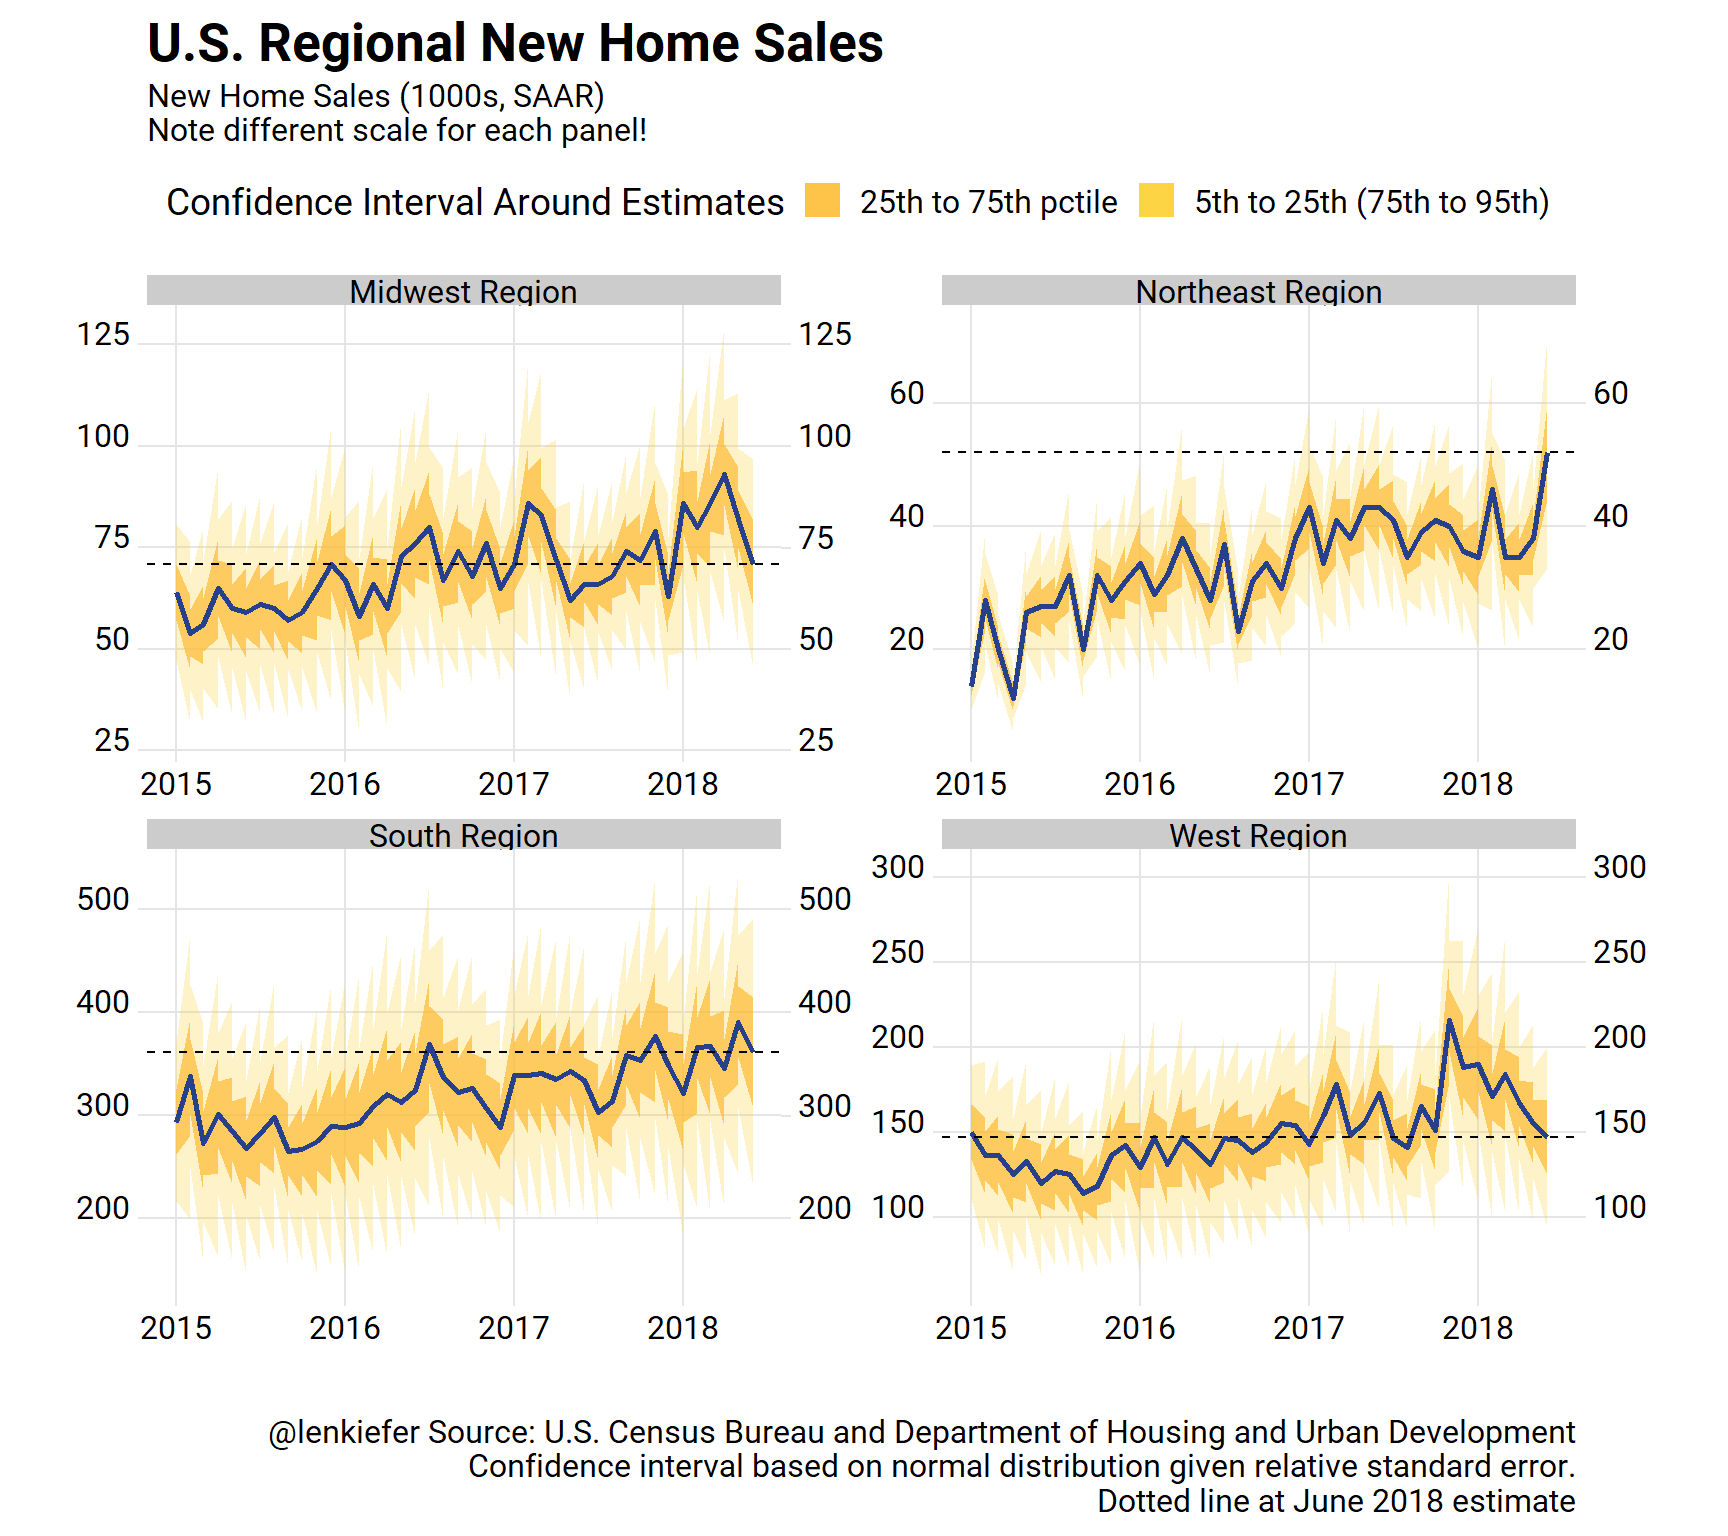
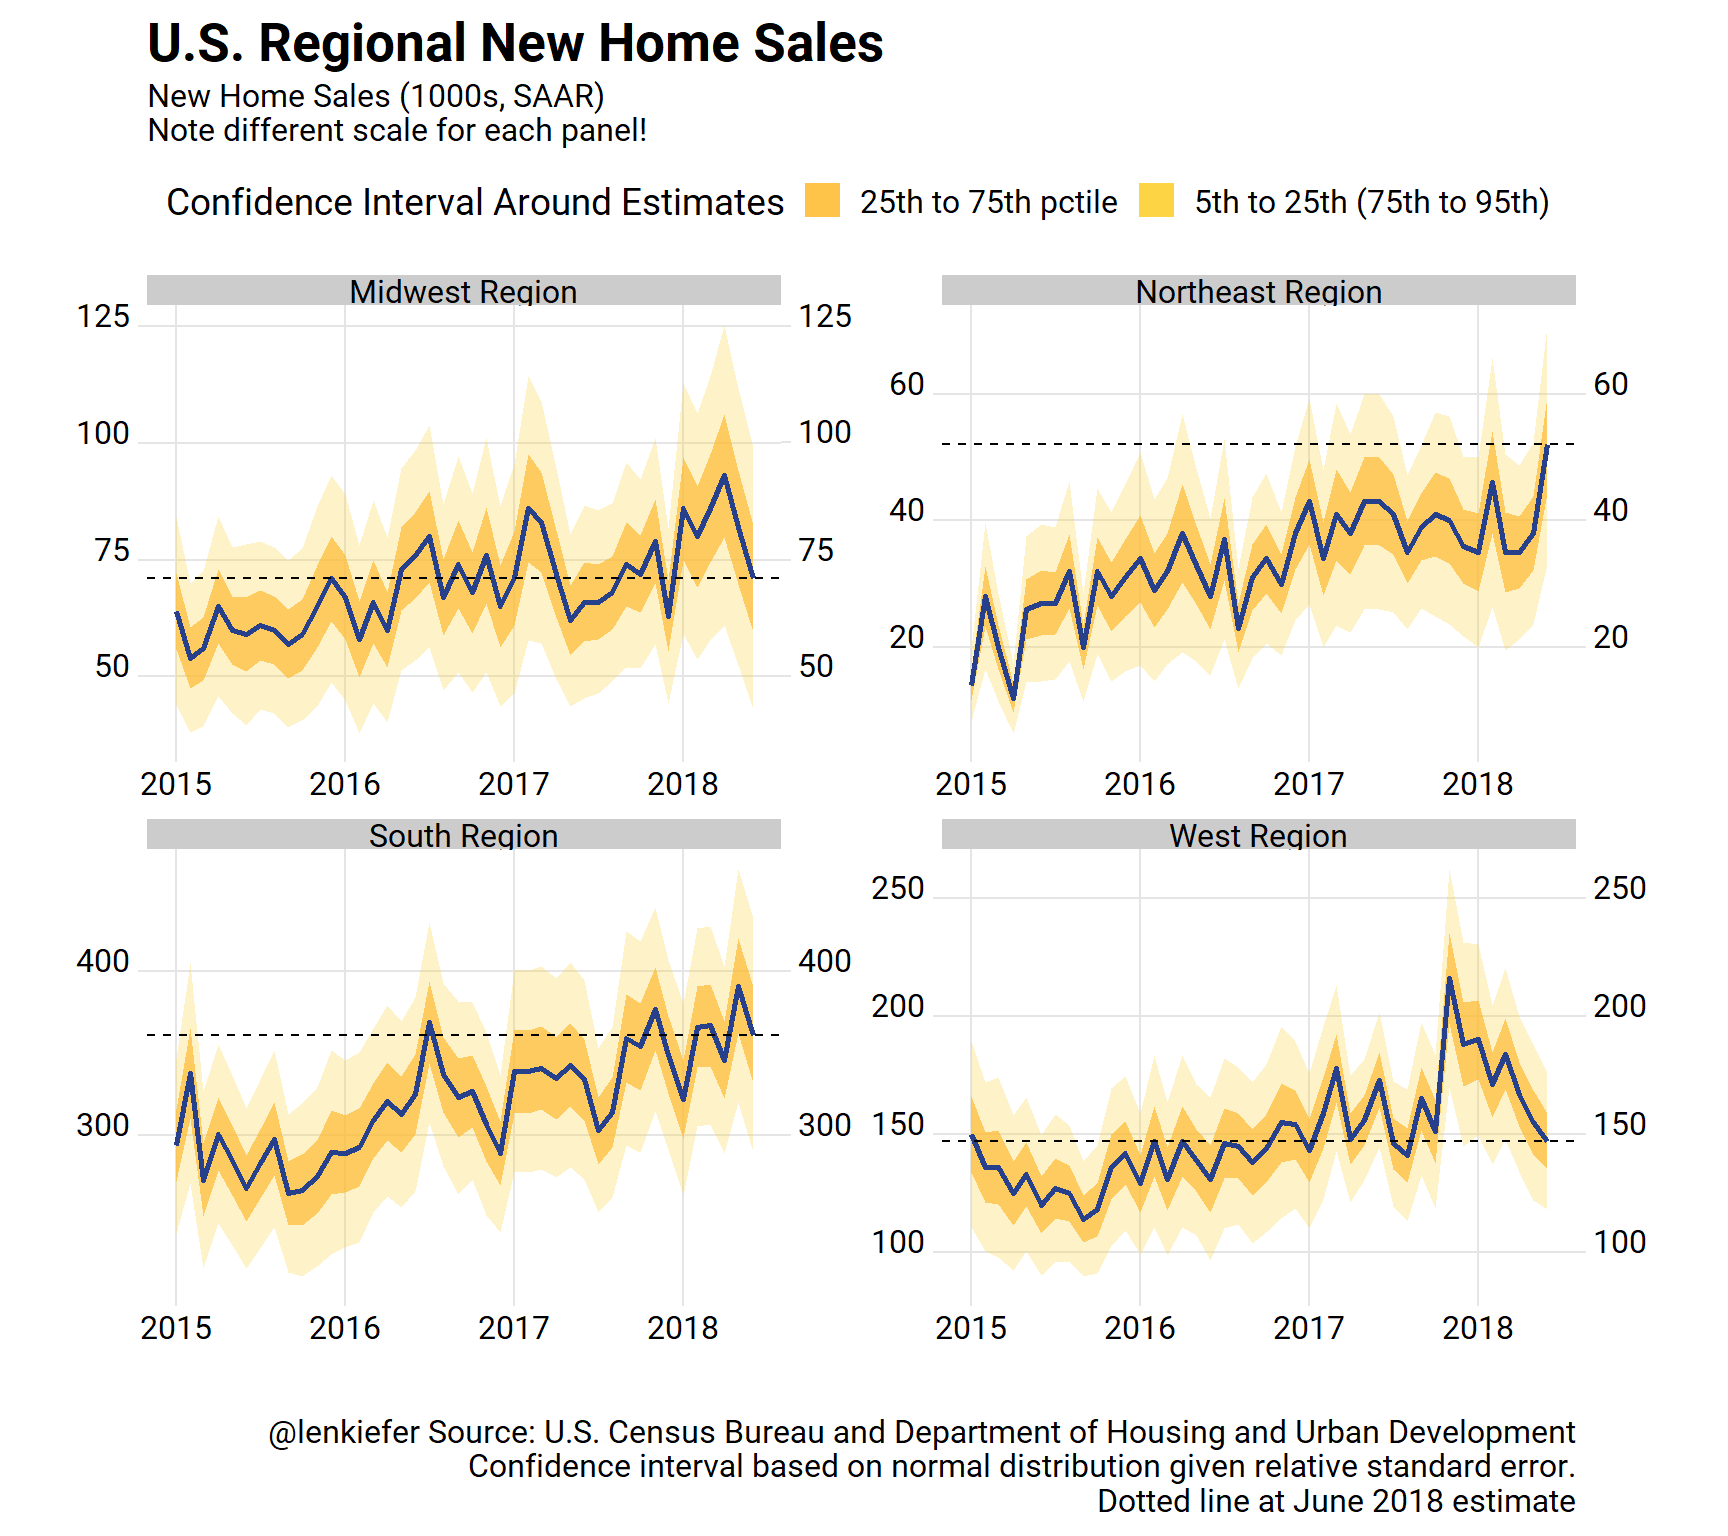
regional sales std

diff --git a/2018/07/26/getting-animated-about-new-home-sales/index.html b/2018/07/26/getting-animated-about-new-home-sales/index.html
@@ -253,7 +253,8 @@
 <p>Per usual, we’ll analyze the data with <a href="https://www.r-project.org/">R</a> and I’ll post code as we go along.</p>
 <div id="data" class="section level1">
 <h1>Data</h1>
-<p>Data for new home sales come from the U.S. Census Bureau joint with the U.S. Department of Housing and Urban Development. The <a href="https://www.census.gov/construction/nrs/about_the_surveys/index.html">data are collected</a> through the Survey of Construction. The data on new residential sales are widely watched as they provide insight into residential investment. For example, the Federal Reserve Bank of Atlanta’s <a href="https://www.frbatlanta.org/cqer/research/gdpnow.aspx?panel=fa9ccf1bede04c3b8a3ac751883e58a92">GDPNow</a> estimate uses the home sales report to adjust their estimates. The release of June 2018 new home sales data caused the GDPNow estimate for 2018Q2 GDP growth to decline by 0.1 percentage points and reduced the estimated growth in residential investment from -0.4 to -2.3 percent. <a href="https://www.frbatlanta.org/-/media/documents/cqer/researchcq/gdpnow/RealGDPTrackingSlides.pdf">Detail in linked pdf.</a></p>
+<p>Data for new home sales come from the U.S. Census Bureau joint with the U.S. Department of Housing and Urban Development. The <a href="https://www.census.gov/construction/nrs/about_the_surveys/index.html">data are collected</a> through the Survey of Construction.</p>
+<p>The data on new residential sales are widely watched as they provide insight into residential investment. For example, the Federal Reserve Bank of Atlanta’s <a href="https://www.frbatlanta.org/cqer/research/gdpnow.aspx?panel=fa9ccf1bede04c3b8a3ac751883e58a92">GDPNow</a> estimate uses the home sales report to adjust their estimates. The release of June 2018 new home sales data caused the GDPNow estimate for 2018Q2 GDP growth to decline by 0.1 percentage points and reduced the estimated growth in residential investment from -0.4 to -2.3 percent. <a href="https://www.frbatlanta.org/-/media/documents/cqer/researchcq/gdpnow/RealGDPTrackingSlides.pdf">Detail in linked pdf.</a></p>
 <div>
 <p>GDPNow’s response to home sales data <img src="../../../../img/charts_jul_26_2018/GDPNow.png", height=535, width=700></p>
 </div>
@@ -301,8 +302,13 @@ df&lt;- left_join(dt, df.dates, by=&quot;per_idx&quot;)</code></pre>
 <div id="uncertain-housing-data" class="section level1">
 <h1>Uncertain housing data</h1>
 <p>Let’s plot a trend for new home sales, but include a band to show uncertainty around the estimate. The Census provides a relative standard error, expressed as a percent of the point estimate. We can use a normal approximation to construct a band around the monthly estimate.</p>
-<p>Let’s first do it for the United States (<code>geo_idx==1</code>) and total (<code>dt_idx==</code>) monthly home sales at a seasonally adjusted annual rate (<code>cat_idx==2</code>). After we extract the point estimates, we’ll extract the error <code>et_idx</code> and then combine to plot:</p>
-<pre class="r"><code>df2 &lt;- filter(df, cat_idx==2, dt_idx==1,geo_idx==1)
+<p>Let’s first do it for the United States (<code>geo_idx==1</code>) and total (<code>dt_idx==</code>) monthly home sales at a seasonally adjusted annual rate (<code>cat_idx==2</code>). After we extract the point estimates, we’ll extract the error <code>et_idx</code> and then combine to plot.</p>
+<p>The <code>et_idx</code> variable is the relative standard error for estimated home sales. To convert to a confidence interval we’ll use the <code>qnorm</code> function to compute the perentiles assuming a normal distribution centered at the estimate with standard error equal to the estimate times the <code>et_idx</code> value divided by 100. <em>Note that Census rounds values so our estimates may differ slightly from the reported estimates</em>.</p>
+<pre class="r"><code>df2 &lt;- filter(df, 
+              cat_idx==2,  # NSA home sales
+              dt_idx==1,   # All houses
+              geo_idx==1   # Just usa
+              )
 
 # extract errors.
 df.err &lt;- filter(df, et_idx==1, cat_idx==2,geo_idx==1)
@@ -331,16 +337,21 @@ ggplot(data=filter(df3,year(date)&gt;2014), aes(x=date, y=val, fill=&quot;5th to
 <p>Here we can see that though the estimate for June ticked down, it’s hard to say for sure that home sales have done much of anything since 2017. Yes, the general tends seems up, but there’s a wide confidence interval.</p>
 <div id="regional-trends" class="section level3">
 <h3>Regional trends</h3>
-<p>We can also apply the same techniques to examine regional trends. We’ll use <code>case_when</code> too. See <span class="citation">@hrbrmstr</span> on <a href="https://rud.is/b/2017/03/10/making-a-case-for-case_when/">case_when in this post</a>.</p>
+<p>We can also apply the same techniques to examine regional trends. We’ll use the <code>case_when</code> function. See <span class="citation">@hrbrmstr</span> on <a href="https://rud.is/b/2017/03/10/making-a-case-for-case_when/">case_when in this post</a>.</p>
 <pre class="r"><code># regional with intervals
 
-df2.r &lt;- filter(df, cat_idx==2, dt_idx==1,! geo_idx==1)
+df2.r &lt;- filter(df, 
+                cat_idx==2,   # NSA home sales
+                dt_idx==1,    # All houses
+                ! geo_idx ==1 # not region =1 (excludes US)
+                )
 
-df.err.r &lt;- filter(df, et_idx==1, cat_idx==2,! geo_idx==1)
+# note: corrected to merge on geo_idx and date
+df.err.r &lt;- filter(df, et_idx==1, cat_idx==2,! geo_idx ==1)
 
-df3.r &lt;- data.frame(date=df.err.r$date,err=df.err.r$val)
+df3.r &lt;- data.frame(date=df.err.r$date,err=df.err.r$val,geo_idx=df.err.r$geo_idx)
 
-df3.r &lt;- left_join(df3.r, df2.r, by=&quot;date&quot;) 
+df3.r &lt;- left_join(df3.r, df2.r, by=c(&quot;date&quot;,&quot;geo_idx&quot;)) 
 
 df3.r &lt;- 
   df3.r %&gt;%
